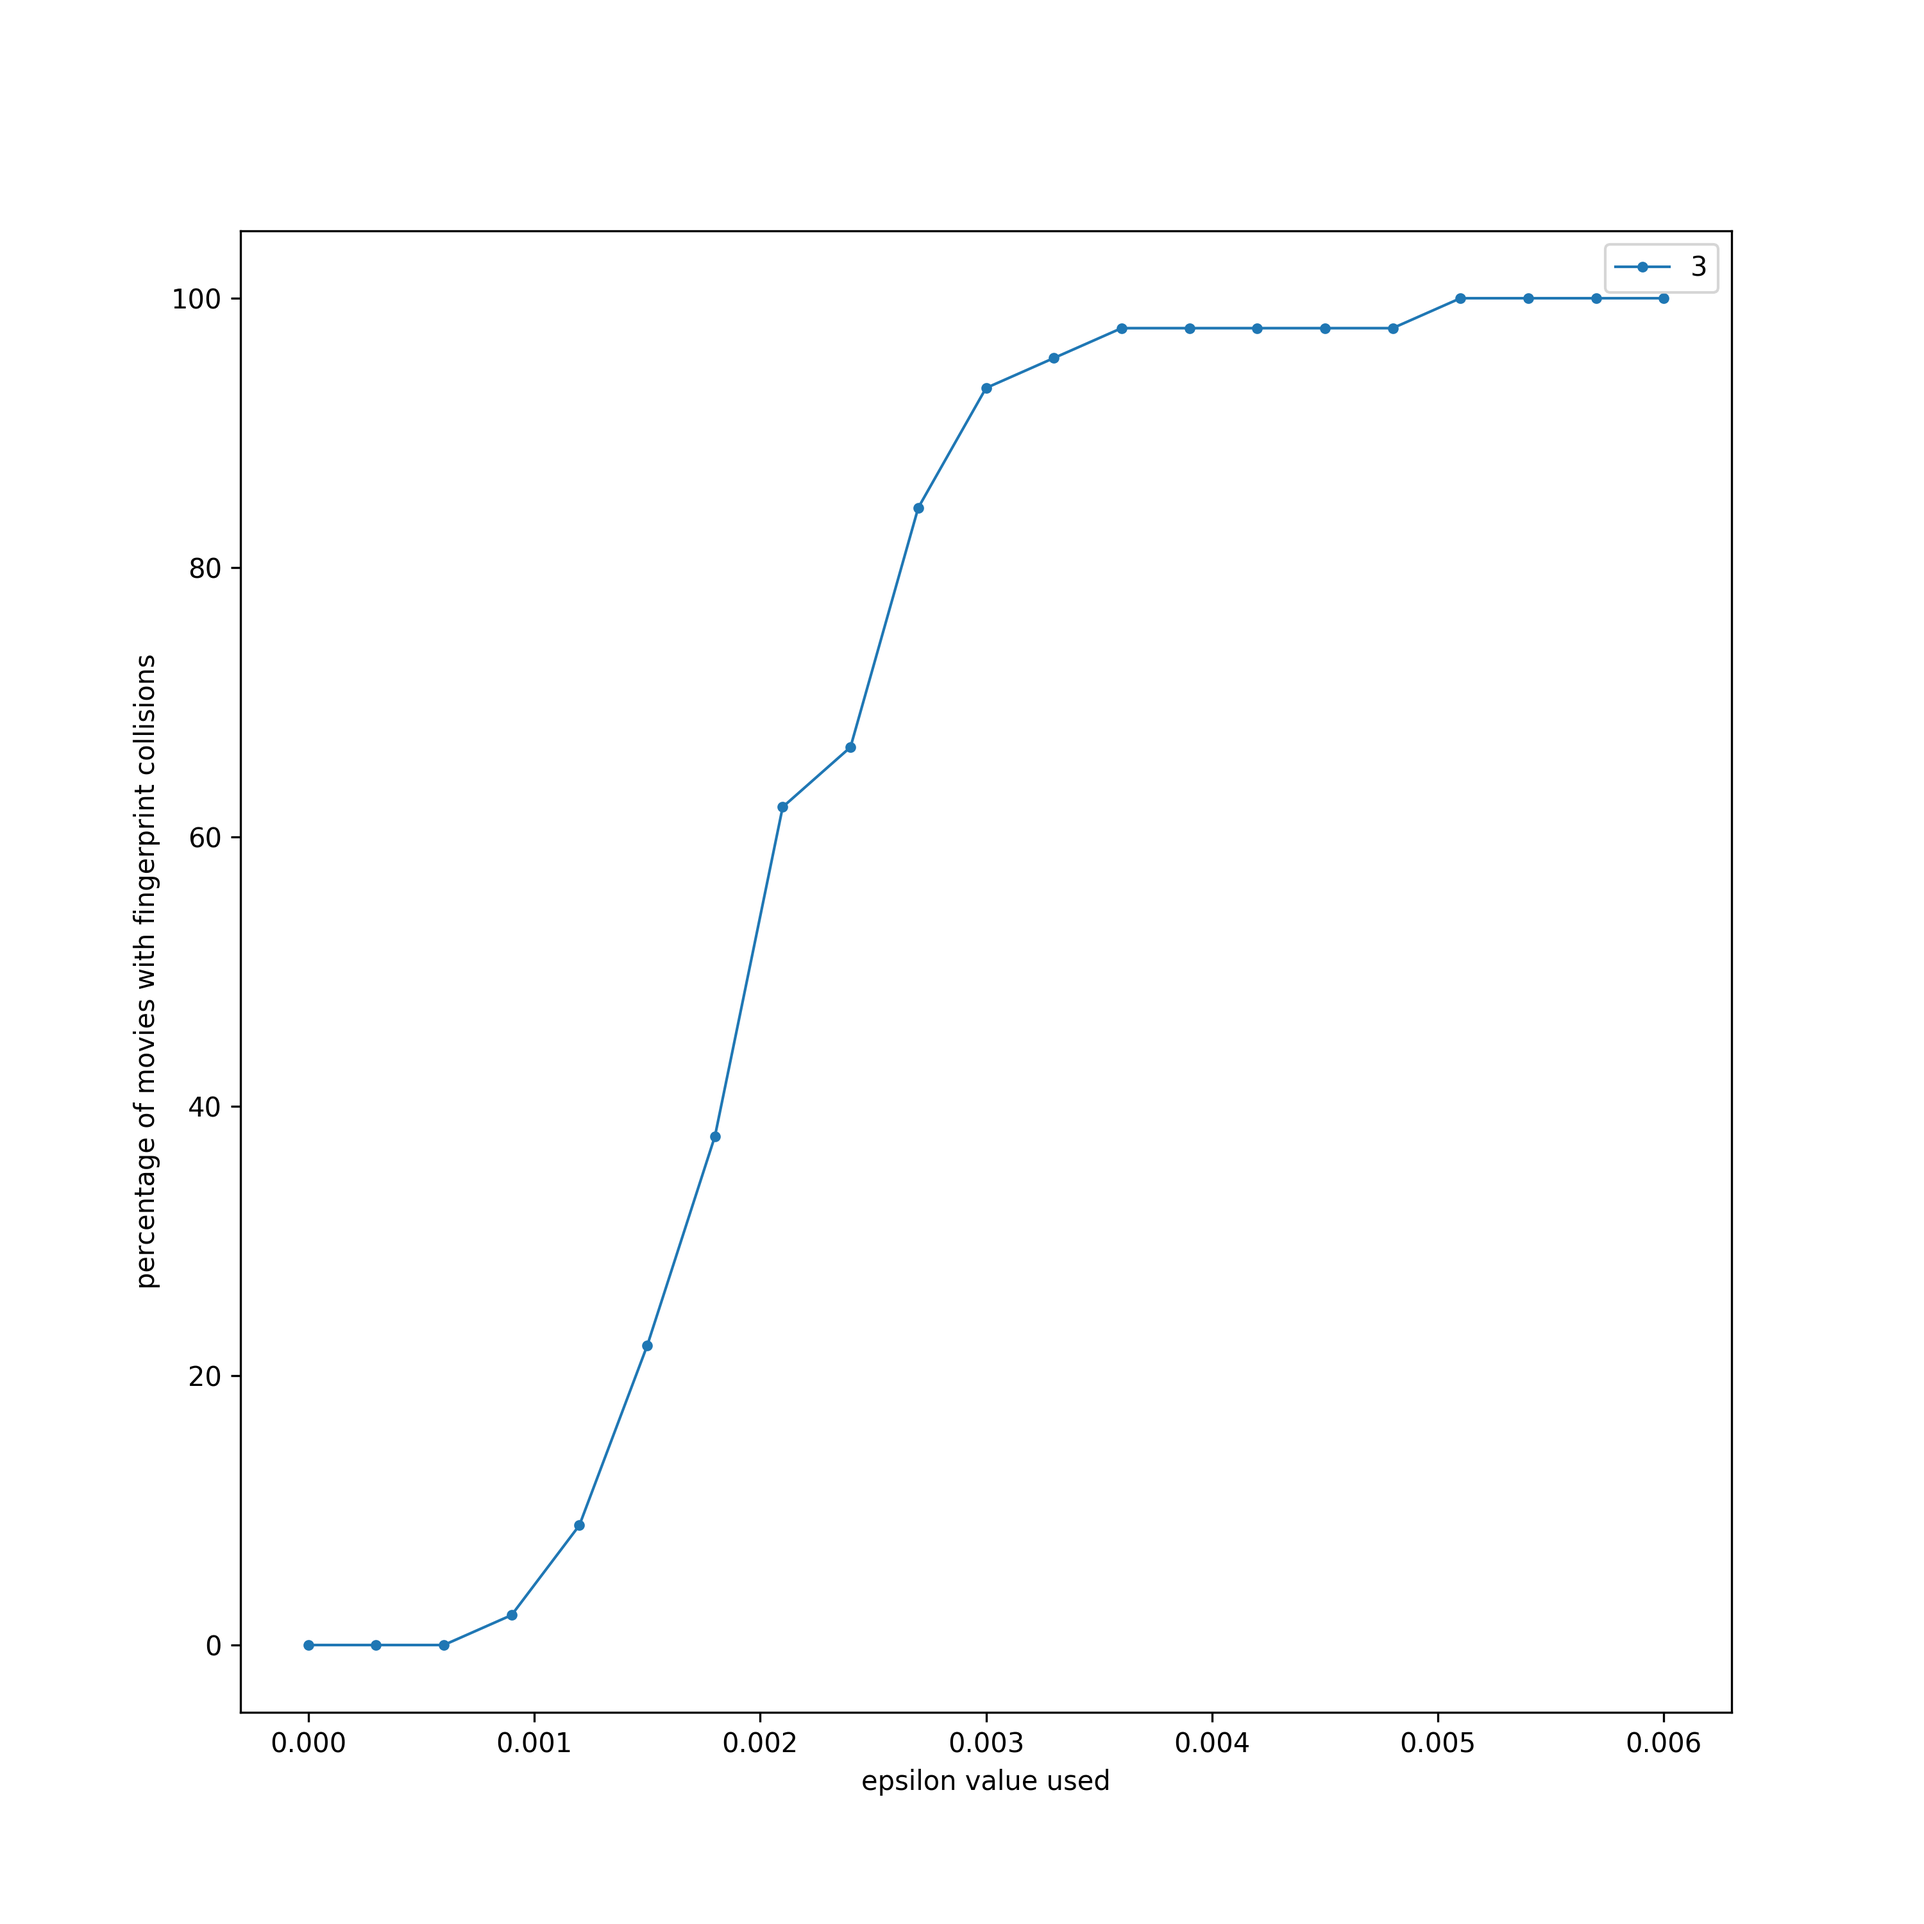
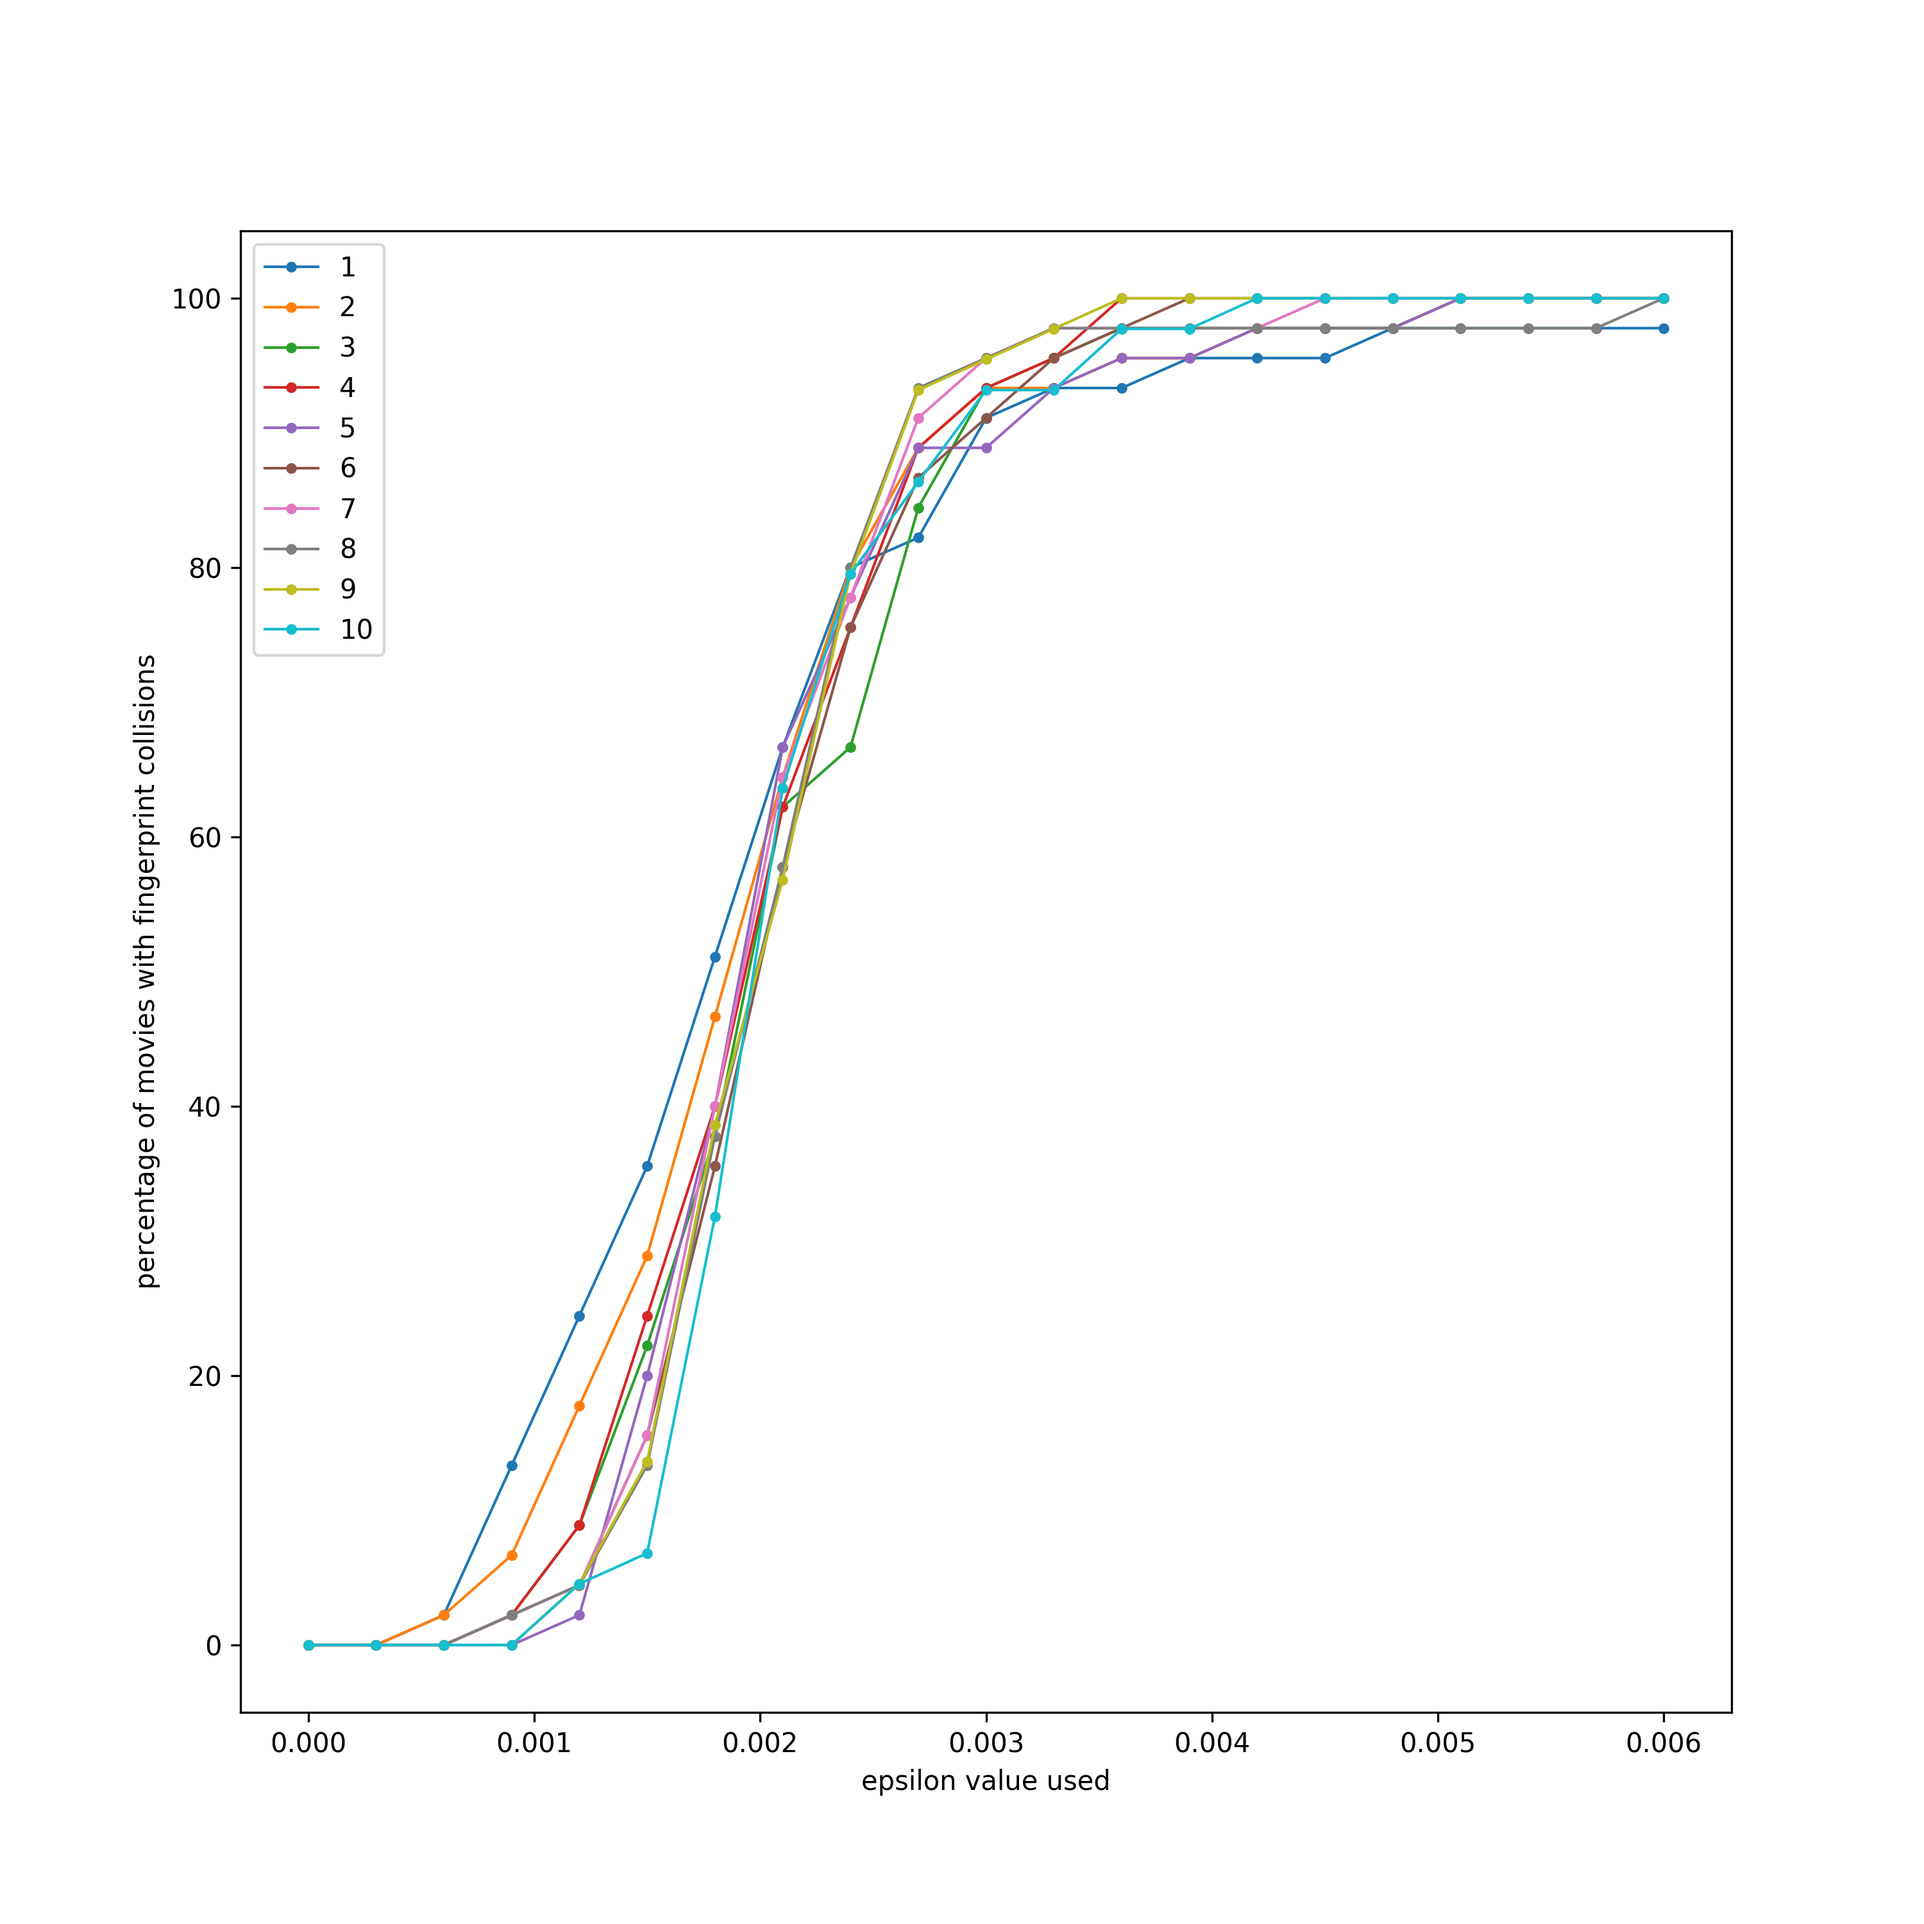
graph generations

diff --git a/4_analysis/plot_attacker.py b/4_analysis/plot_attacker.py
@@ -14,13 +14,11 @@ inventory = Inventory()
 START_AGGREGATION = 1
 LAST_AGGREGATION = 1
 
-START_PACKAGE_PER_BITRATE = 3
-LAST_PACKAGE_PER_BITRATE = 3
+START_PACKAGE_PER_BITRATE = 1
+LAST_PACKAGE_PER_BITRATE = 10
 
 EPSILON_STEP = 0.0003
 LAST_EPSILON = 0.006
-
-PACKAGE_PER_BITRATE = 3
 
 MAX_MOVIES = 100
 
@@ -64,7 +62,8 @@ for package_per_bitrate in range(START_PACKAGE_PER_BITRATE, LAST_PACKAGE_PER_BIT
                     continue
 
                 print("checking " + str(checked) + " of " + str(len(db_movies)) +
-                      " for (package_per_bitrate=" + str(package_per_bitrate) + ", aggregation=" + str(aggregation) + ", epsilon=" + str(epsilon) + ")")
+                      " for (package_per_bitrate=" + str(package_per_bitrate) + ", aggregation=" + str(
+                    aggregation) + ", epsilon=" + str(epsilon) + ")")
 
                 # get bitrates
                 cursor.execute("SELECT id FROM captures WHERE movie_id = ?", [movie_id])
@@ -72,13 +71,16 @@ for package_per_bitrate in range(START_PACKAGE_PER_BITRATE, LAST_PACKAGE_PER_BIT
 
                 matching_movies = False
                 if MODE == "bitrate":
-                    matching_movies = query_helper.bitrate_attack(db_bitrates, db_movies, aggregation, epsilon, packet_table_name, package_per_bitrate)
-                elif MODE == "naive":
-                    matching_movies = query_helper.naive_attack(db_bitrates, db_bitrates[0][0], db_movies, aggregation, epsilon,
+                    matching_movies = query_helper.bitrate_attack(db_bitrates, db_movies, aggregation, epsilon,
                                                                   packet_table_name, package_per_bitrate)
+                elif MODE == "naive":
+                    matching_movies = query_helper.naive_attack(db_bitrates, db_bitrates[0][0], db_movies, aggregation,
+                                                                epsilon,
+                                                                packet_table_name, package_per_bitrate)
 
                 if matching_movies is False:
                     print("skipping " + str(movie_id))
+                    continue
 
                 # sanity check
                 assert movie_id in matching_movies
@@ -182,7 +184,6 @@ for package_per_bitrate in range(START_PACKAGE_PER_BITRATE, LAST_PACKAGE_PER_BIT
             total_package_per_bitrate_plot[aggregation] = {}
         total_package_per_bitrate_plot[aggregation][package_per_bitrate] = total_plot[aggregation]
 
-
 print("generating package bitrate plots")
 
 # plot influence of package per bitrate
@@ -192,7 +193,9 @@ for aggregation in total_package_per_bitrate_plot.keys():
     plt.xlabel("epsilon value used")
     plt.ylabel("percentage of movies with fingerprint collisions")
     for package_per_bitrate in total_package_per_bitrate_plot[aggregation]:
-        plt.plot(total_package_per_bitrate_plot[aggregation][package_per_bitrate][0], total_package_per_bitrate_plot[aggregation][package_per_bitrate][1], label=str(package_per_bitrate), marker='.', linewidth=1)
+        plt.plot(total_package_per_bitrate_plot[aggregation][package_per_bitrate][0],
+                 total_package_per_bitrate_plot[aggregation][package_per_bitrate][1], label=str(package_per_bitrate),
+                 marker='.', linewidth=1)
 
     # save
     plt.legend()
